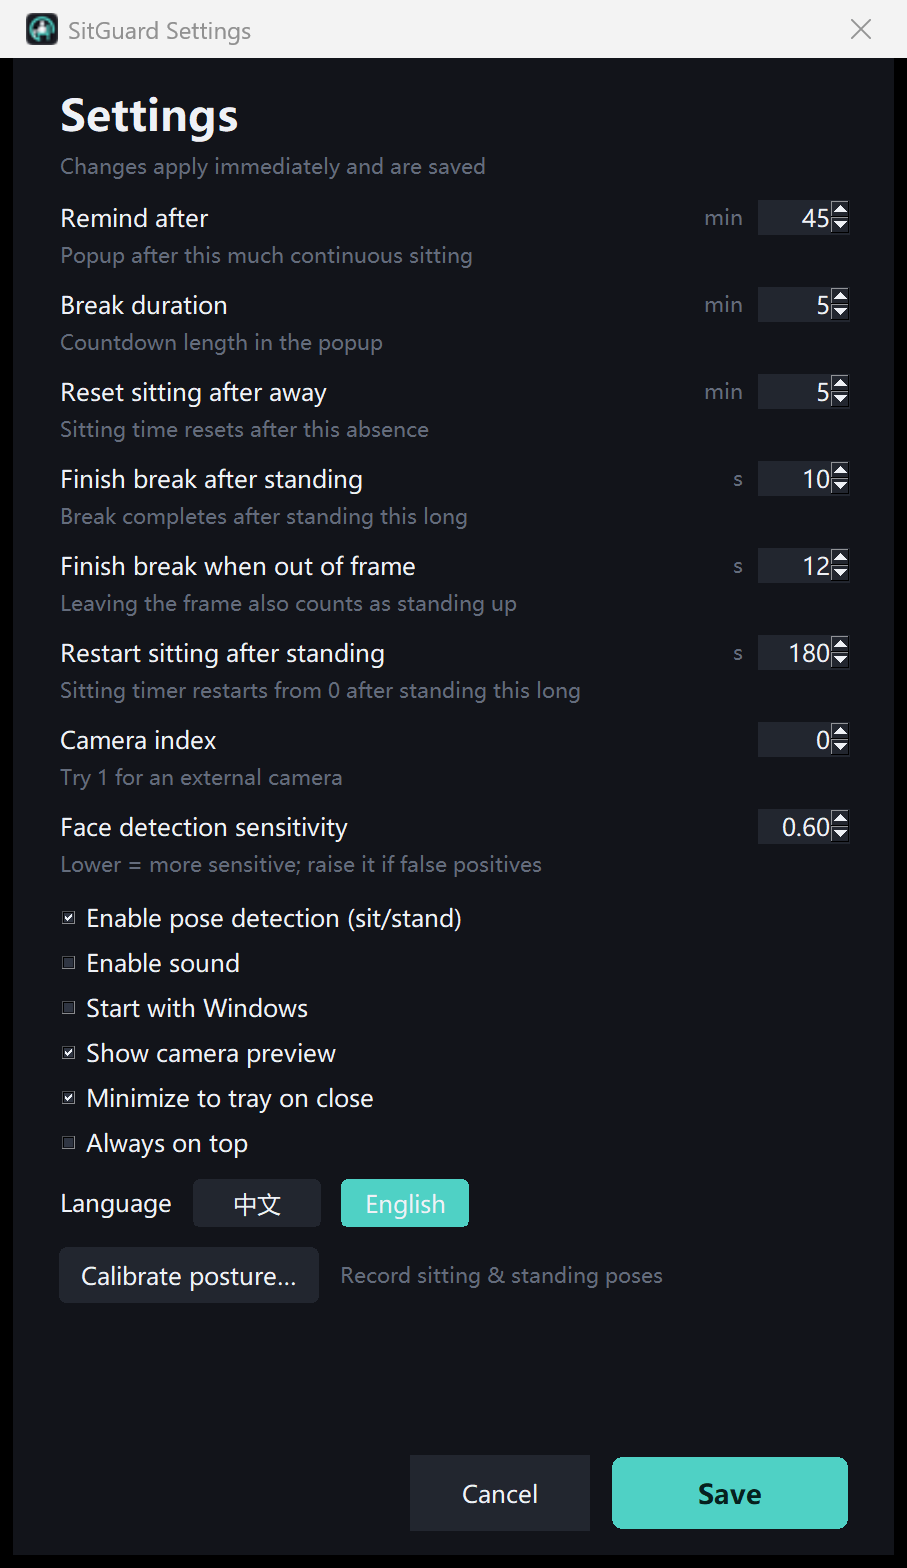
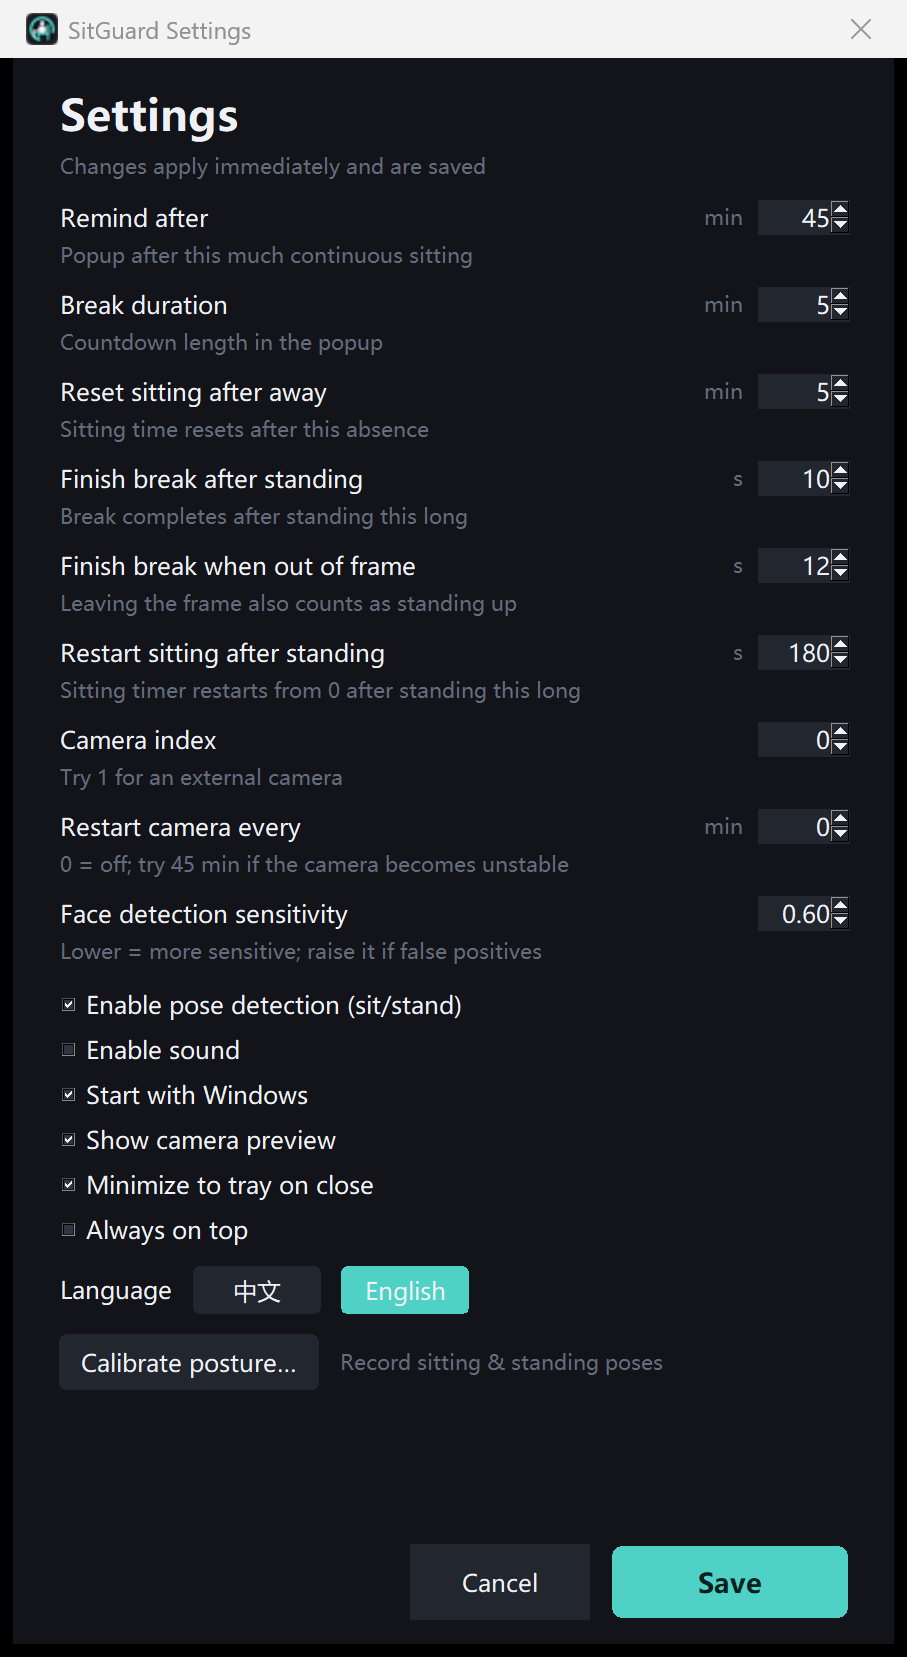
fix(camera): detect snow/black frames and restart; optional periodic restart
Add FrameHealth to recognize TV-static noise and all-black frames from the camera driver, restarting the capture device automatically. Add a Settings option to restart the camera every N minutes (0 = off) for drivers that degrade over time. Cover the detector with unit tests and run them in CI.

diff --git a/sitguard/health.py b/sitguard/health.py
@@ -1,0 +1,70 @@
+"""摄像头画面健康检测：识别“电视机雪花”式噪声画面。
+
+真实摄像头画面相邻像素高度相关；传感器/驱动失效时常常输出随机噪声：
+相邻像素几乎不相关、帧间差异很大、整体偏灰。连续检测到这种画面约 2 秒
+就判定为雪花，交由采集线程重启摄像头。
+"""
+
+from __future__ import annotations
+
+import numpy as np
+
+
+class FrameHealth:
+    def __init__(self, snow_seconds: float = 2.0, black_seconds: float = 8.0):
+        self.snow_seconds = snow_seconds
+        self.black_seconds = black_seconds
+        self._bad_since: float | None = None
+        self._black_since: float | None = None
+        self._prev: np.ndarray | None = None
+        self.last_stats = {"mean": 0.0, "std": 0.0, "corr": 1.0, "diff": 0.0}
+
+    def update(self, frame, now: float) -> str | None:
+        """返回 "snow" / "black" 表示需要重启摄像头，正常返回 None。"""
+        if frame is None or frame.size == 0:
+            return None
+        try:
+            gray = frame.astype(np.float32).mean(axis=2)
+            h, w = gray.shape
+            step_y = max(1, h // 36)
+            step_x = max(1, w // 64)
+            small = gray[::step_y, ::step_x]
+            std = float(small.std())
+            mean = float(small.mean())
+            a = small[:, :-1].ravel()
+            b = small[:, 1:].ravel()
+            if a.std() > 1e-3 and b.std() > 1e-3:
+                corr = float(np.corrcoef(a, b)[0, 1])
+            else:
+                corr = 1.0
+            diff = 0.0 if self._prev is None else float(np.mean(np.abs(small - self._prev)))
+            self._prev = small
+            self.last_stats = {"mean": mean, "std": std, "corr": corr, "diff": diff}
+
+            # 雪花：亮度正常、空间细节随机、相邻像素不相关、帧间剧烈变化
+            bad = mean > 15.0 and std > 15.0 and corr < 0.25 and diff > 8.0
+            if bad:
+                self._black_since = None
+                if self._bad_since is None:
+                    self._bad_since = now
+                if now - self._bad_since >= self.snow_seconds:
+                    self._bad_since = None
+                    self._prev = None
+                    return "snow"
+            else:
+                self._bad_since = None
+
+            # 全黑且几乎无噪声：可能是驱动挂了或摄像头被遮挡
+            black = mean < 3.0 and std < 8.0
+            if black:
+                if self._black_since is None:
+                    self._black_since = now
+                if now - self._black_since >= self.black_seconds:
+                    self._black_since = None
+                    self._prev = None
+                    return "black"
+            else:
+                self._black_since = None
+            return None
+        except Exception:  # noqa: BLE001
+            return None

diff --git a/tests/test_health.py b/tests/test_health.py
@@ -1,0 +1,61 @@
+"""画面健康检测（雪花）测试。"""
+
+from __future__ import annotations
+
+import sys
+import unittest
+from pathlib import Path
+
+import numpy as np
+
+sys.path.insert(0, str(Path(__file__).resolve().parent.parent))
+
+from sitguard.health import FrameHealth  # noqa: E402
+
+
+class TestFrameHealth(unittest.TestCase):
+    def test_snow_detected(self):
+        health = FrameHealth(snow_seconds=1.0)
+        rng = np.random.default_rng(7)
+        now = 0.0
+        fired = False
+        for _ in range(25):
+            frame = rng.integers(0, 256, (360, 640, 3), dtype=np.uint8)
+            now += 0.1
+            fired = health.update(frame, now) or fired
+        self.assertTrue(fired)
+
+    def test_normal_scene_not_snow(self):
+        health = FrameHealth(snow_seconds=0.5)
+        yy, xx = np.mgrid[0:360, 0:640]
+        frame = np.stack([
+            ((xx // 8) % 256),
+            ((yy // 8) % 256),
+            (((xx + yy) // 16) % 256),
+        ], axis=2).astype(np.uint8)
+        now = 0.0
+        for _ in range(10):
+            now += 0.1
+            self.assertFalse(health.update(frame, now))
+
+    def test_black_detected_after_timeout(self):
+        health = FrameHealth(snow_seconds=1.0, black_seconds=1.0)
+        frame = np.zeros((360, 640, 3), dtype=np.uint8)
+        now = 0.0
+        result = None
+        for _ in range(15):
+            now += 0.1
+            result = health.update(frame, now) or result
+        self.assertEqual(result, "black")
+
+    def test_black_frame_is_not_snow(self):
+        health = FrameHealth(snow_seconds=0.5)
+        frame = np.zeros((360, 640, 3), dtype=np.uint8)
+        now = 0.0
+        for _ in range(10):
+            now += 0.1
+            self.assertFalse(health.update(frame, now))
+
+
+if __name__ == "__main__":
+    unittest.main(verbosity=2)

diff --git a/sitguard/i18n.py b/sitguard/i18n.py
@@ -45,8 +45,8 @@ _T = {
     "stat_sit": ("今日在座", "Sitting today"),
     "stat_breaks": ("完成休息", "Breaks"),
     "stat_reminders": ("提醒次数", "Reminders"),
-    "footer": ("SitGuard v1.4.0 · 画面仅在本机处理",
-               "SitGuard v1.4.0 · Processed locally only"),
+    "footer": ("SitGuard v1.4.1 · 画面仅在本机处理",
+               "SitGuard v1.4.1 · Processed locally only"),
     "stand_mode": ("站立模式", "Stand mode"),
     "sit_down": ("坐下", "Sit down"),
     "stand": ("站立", "Stand"),
@@ -143,6 +143,7 @@ _T = {
     "row_break_absent": ("离开画面多久完成休息", "Finish break when out of frame"),
     "row_stand_reset": ("站立多久重新计时", "Restart sitting after standing"),
     "row_cam": ("摄像头编号", "Camera index"),
+    "row_cam_restart": ("摄像头定时重启", "Restart camera every"),
     "row_sens": ("人脸检测灵敏度", "Face detection sensitivity"),
     "row_lang": ("界面语言", "Language"),
     "hint_sit": ("连续坐姿达到该时长后弹窗提醒",
@@ -157,6 +158,8 @@ _T = {
     "hint_stand_reset": ("站立超过该时长，久坐计时从 0 重新开始",
                          "Sitting timer restarts from 0 after standing this long"),
     "hint_cam": ("外接摄像头可改 1 试试", "Try 1 for an external camera"),
+    "hint_cam_restart": ("0 = 关闭；长时间运行不稳定时可设 45 分钟",
+                         "0 = off; try 45 min if the camera becomes unstable"),
     "hint_sens": ("数值越小越灵敏；误判时可调高",
                   "Lower = more sensitive; raise it if false positives"),
     "chk_pose": ("启用姿态检测（区分坐/站）", "Enable pose detection (sit/stand)"),

diff --git a/sitguard/views.py b/sitguard/views.py
@@ -789,7 +789,7 @@ class SettingsWindow:
         win.configure(bg=ui.BG)
         win.resizable(False, False)
         win.transient(self.root)
-        ui.center_window(win, ui.dp(440), ui.dp(748), anchor="center")
+        ui.center_window(win, ui.dp(440), ui.dp(792), anchor="center")
         win.protocol("WM_DELETE_WINDOW", self.close)
 
         body = tk.Frame(win, bg=ui.BG)
@@ -818,6 +818,9 @@ class SettingsWindow:
                   from_=30, to=900, step=30, hint_key="hint_stand_reset")
         self._row(body, "row_cam", tk.IntVar(value=cfg.camera_index), "",
                   from_=0, to=8, step=1, hint_key="hint_cam")
+        self._row(body, "row_cam_restart",
+                  tk.IntVar(value=int(cfg.camera_restart_minutes)), "minutes",
+                  from_=0, to=180, step=5, hint_key="hint_cam_restart")
         self._row(body, "row_sens", tk.DoubleVar(value=cfg.sensitivity), "",
                   from_=0.3, to=0.9, step=0.05, decimals=2, hint_key="hint_sens")
 
@@ -916,6 +919,7 @@ class SettingsWindow:
             cfg.standing_break_seconds = float(self.vars["row_stand_break"].get())
             cfg.standing_reset_seconds = float(self.vars["row_stand_reset"].get())
             cfg.camera_index = int(float(self.vars["row_cam"].get()))
+            cfg.camera_restart_minutes = int(float(self.vars["row_cam_restart"].get()))
             cfg.sensitivity = round(float(self.vars["row_sens"].get()), 2)
         except (ValueError, tk.TclError):
             self.app.notify(t("invalid_number"), ui.DANGER)

diff --git a/sitguard/camera.py b/sitguard/camera.py
@@ -16,6 +16,7 @@ from pathlib import Path
 import cv2
 import numpy as np
 
+from .health import FrameHealth
 from .posture import (Landmark, Posture, PostureAnalyzer, PostureProfile,
                       extract_profile)
 
@@ -182,6 +183,8 @@ class CameraWorker:
         self.posture = PostureAnalyzer()
         self._last_posture: Posture = "unknown"
         self._pose_error = ""
+        self._health = FrameHealth()
+        self._health_retry_at = 0.0
         self._apply_calibration()
 
     def _apply_calibration(self) -> None:
@@ -343,6 +346,15 @@ class CameraWorker:
                     frame = cv2.resize(
                         frame, (640, int(frame.shape[0] * 640 / frame.shape[1])),
                         interpolation=cv2.INTER_AREA)
+                reason = self._health.update(frame, now)
+                if reason and now >= self._health_retry_at:
+                    self._health_retry_at = now + (10.0 if reason == "snow" else 30.0)
+                    log.warning("检测到摄像头异常画面（%s），重启：%s",
+                                reason, self._health.last_stats)
+                    msg = ("画面异常（雪花），正在自动重连…" if reason == "snow"
+                           else "画面全黑，正在尝试重新连接…")
+                    self._set_status("error", msg)
+                    break
                 frames += 1
                 if now - fps_t0 >= 1.0:
                     fps = frames / (now - fps_t0)

diff --git a/sitguard/app.py b/sitguard/app.py
@@ -72,6 +72,7 @@ class App:
         self._paused_by_user = False
         self._quitting = False
         self._camera_error_since: float | None = None
+        self._camera_started_at = time.monotonic()
         self._last_camera_restart = 0.0
         self._last_camera_notice = 0.0
         self._last_stats_save = time.monotonic()
@@ -236,7 +237,7 @@ class App:
     def _recover_camera(self, now: float, reason: str) -> None:
         self._last_camera_restart = now
         log.warning("摄像头自动恢复：%s", reason)
-        if now - self._last_camera_notice > 60.0:
+        if reason != "定时重启" and now - self._last_camera_notice > 60.0:
             self._last_camera_notice = now
             self.notify(i18n.t("toast_camera_recover"), ui.WARN)
         old = self.camera
@@ -318,6 +319,12 @@ class App:
                     self._camera_state = "off"
                     self._camera_message = status.message
             self._camera_watchdog(now, self._camera_snapshot)
+            if (self.config.camera_restart_minutes > 0
+                    and self.camera is not None
+                    and not self.config.demo_mode
+                    and now - self._camera_started_at
+                    >= self.config.camera_restart_minutes * 60.0):
+                self._recover_camera(now, "定时重启")
             self.engine.tick(now)
             try:
                 view = bool(self.root.winfo_exists()) and self.root.state() != "withdrawn"

diff --git a/sitguard/config.py b/sitguard/config.py
@@ -41,6 +41,7 @@ class Config:
     # 摄像头
     camera_index: int = 0
     camera_enabled: bool = True
+    camera_restart_minutes: int = 0   # 0=关闭；定时重启摄像头
     demo_mode: bool = False          # 无摄像头演示：用模拟信号驱动
     language: str = "zh"
     window_width: int = 420
@@ -86,6 +87,7 @@ class Config:
         c.window_width = int(clamp(c.window_width, 150, 2000))
         c.window_height = int(clamp(c.window_height, 150, 2000))
         c.camera_index = int(clamp(c.camera_index, 0, 10))
+        c.camera_restart_minutes = int(clamp(c.camera_restart_minutes, 0, 180))
         c.sit_minutes = int(clamp(c.sit_minutes, 1, 480))
         c.break_minutes = int(clamp(c.break_minutes, 1, 60))
         c.away_minutes = int(clamp(c.away_minutes, 1, 120))

diff --git a/sitguard/__init__.py b/sitguard/__init__.py
@@ -1,5 +1,5 @@
 """SitGuard — 久坐提醒（摄像头在场检测）。"""
 
-__version__ = "1.4.0"
+__version__ = "1.4.1"
 APP_NAME = "SitGuard"
 APP_NAME_CN = "久坐提醒"

diff --git a/README_ZH.md b/README_ZH.md
@@ -71,6 +71,8 @@ English UI:
 | 今日统计 | 今日累计在座、完成休息次数、提醒次数 |
 | 托盘常驻 | 关闭窗口不退出；托盘菜单可暂停、立即休息、开关摄像头 |
 | 摄像头自恢复 | 长时间运行后画面卡住/设备掉线时，看门狗自动重连；检测器每小时重建 |
+| 雪花/黑屏检测 | 检测到电视雪花噪声或全黑画面，几秒内自动重启摄像头 |
+| 定时重启 | 设置里可设“摄像头定时重启”分钟数（0=关闭），适合长时间运行不稳定的驱动 |
 | 高 DPI | 适配 3.5K/200% 缩放，界面与文字原生清晰；跨不同缩放比例的屏幕时保持窗口逻辑尺寸 |
 | 自由缩放 | 窗口可任意拖动缩放；缩到最小时只保留计时器，双击或点 ⤢ 恢复，尺寸自动记忆 |
 
@@ -105,6 +107,7 @@ English UI:
 | 离开画面多久完成休息 | 12 秒 | 站起来后整个人离开镜头也算起身 |
 | 站立多久重新计时 | 3 分钟 | 站立超过该时长，久坐计时从 0 重新开始 |
 | 摄像头编号 | 0 | 外接摄像头可试 1、2 |
+| 摄像头定时重启 | 0（关闭） | 长时间运行不稳定时可设 45 分钟 |
 | 人脸检测灵敏度 | 0.60 | 数值越小越灵敏；误判多时调高 |
 | 姿势校准 | — | 记录坐/站特征，识别最准 |
 | 姿态检测 / 提示音 / 自启 / 预览 / 托盘 / 置顶 | — | 按需勾选 |

diff --git a/README.md b/README.md
@@ -36,6 +36,10 @@ as soon as you stand.
 - **Tray, autostart, daily stats**, single instance, fully local processing.
 - **Camera auto-recovery** — if the feed stalls or the device drops after hours
   of running, a watchdog reconnects automatically; detectors are rebuilt hourly.
+- **Snow / black frame detection** — corrupted camera output (TV-static noise or
+  an all-black feed) is detected within seconds and the device is restarted.
+- **Optional scheduled restart** — Settings → Restart camera every N minutes
+  (0 = off) for drivers that degrade over long sessions.
 
 ![Break reminder](screenshots/break_overlay.png)
 
@@ -88,6 +92,7 @@ frame” and treats losing sight of you as standing up.
 | Finish break when out of frame | 12 s | Leaving the frame also completes the break |
 | Restart sitting after standing | 3 min | Standing this long restarts the sitting timer |
 | Camera index | 0 | Try 1 for an external camera |
+| Restart camera every | 0 (off) | Periodic soft reset for unstable drivers; try 45 min |
 | Face detection sensitivity | 0.60 | Lower = more sensitive |
 | Posture calibration | — | Record sitting/standing profiles |
 | Language | 中文 | Chinese / English |
